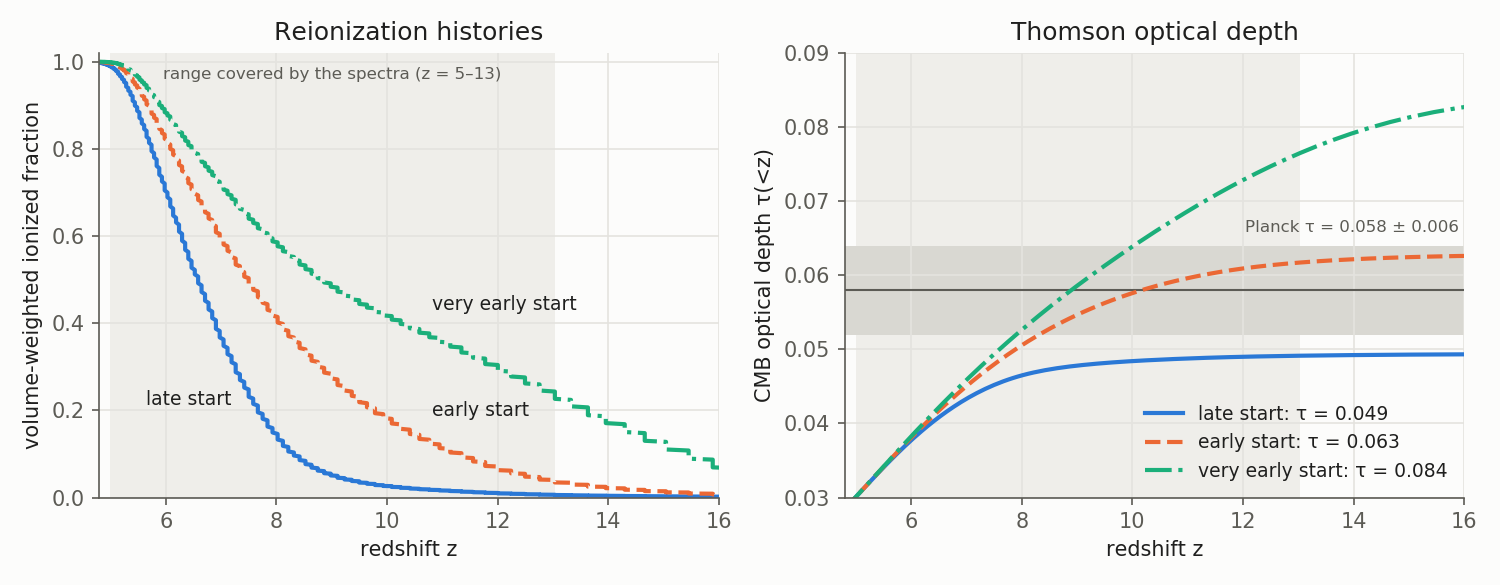
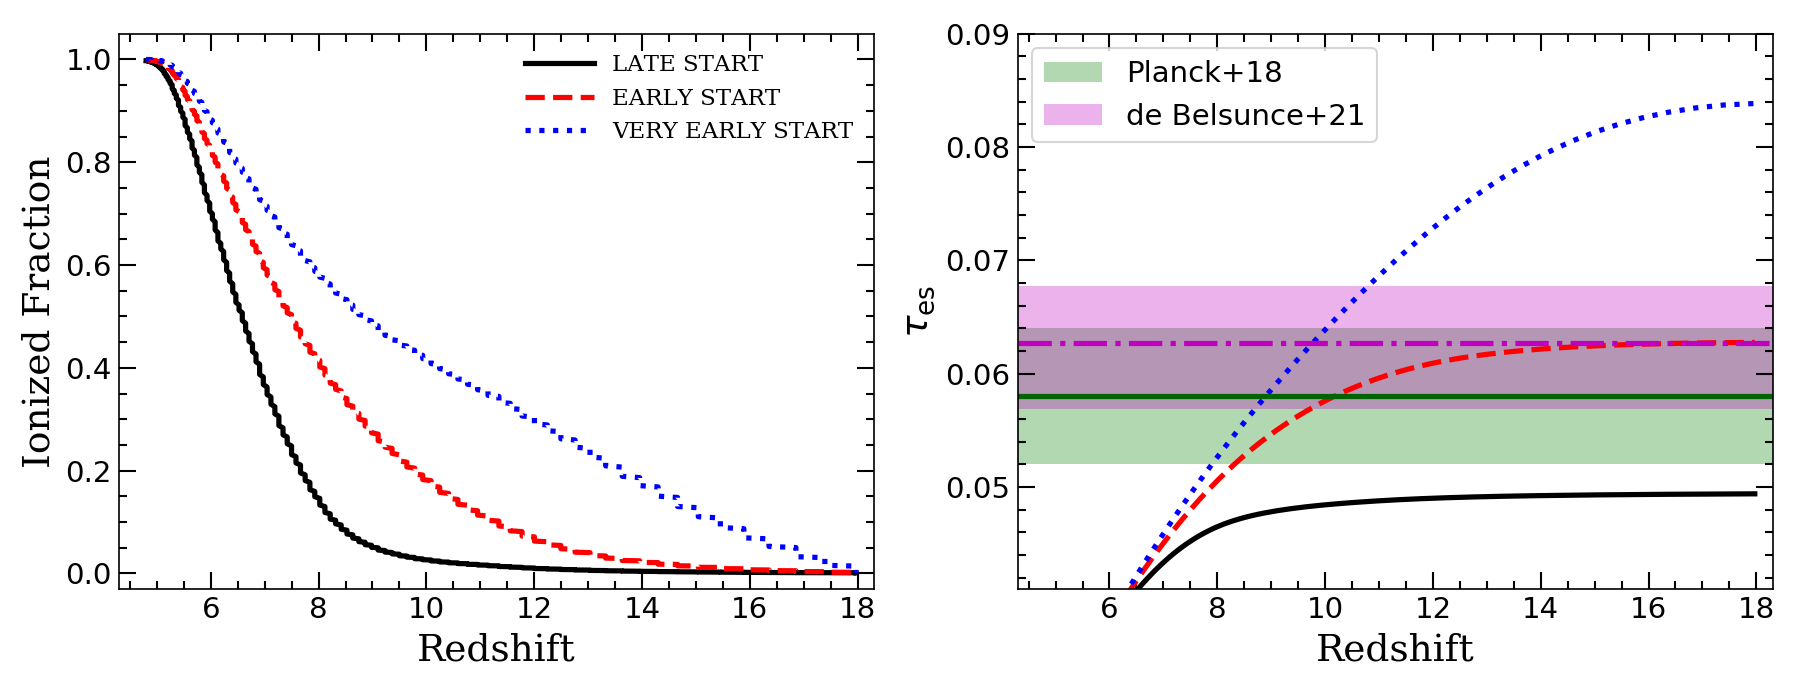
Reionization plot: match the style of Cohon et al. 2025 Fig. 1
Black solid / red dashed / blue dotted, inward ticks on all sides,
Planck+18 and de Belsunce+21 tau bands.

Changed region(s): [[0.0, 0.0308, 1.0, 0.9846], [0.184, 0.7385, 0.2147, 0.8], [0.4907, 0.2769, 0.5213, 0.3077]]

diff --git a/docs/make_reionization_plot.py b/docs/make_reionization_plot.py
@@ -29,7 +29,8 @@ MODELS = [("late_end_late_start_4", "late start"),
 OM, OB, HH, Y = 0.305147, 0.048, 0.68, 0.246
 SIGMA_T, C, G, M_H, MPC = 6.6524587e-25, 2.99792458e10, 6.6743e-8, 1.6735575e-24, 3.0856776e24
 Z_HE3 = 3.5
-PLANCK_TAU, PLANCK_ERR = 0.058, 0.006  # value quoted in Cohon et al. 2025
+PLANCK_TAU, PLANCK_ERR = 0.058, 0.006  # Planck+18 band as plotted in Cohon et al. 2025
+DEBELSUNCE_TAU, DEBELSUNCE_LO, DEBELSUNCE_HI = 0.0627, 0.0058, 0.0050  # de Belsunce et al. 2021
 
 
 def read_otf(path):
@@ -71,54 +72,43 @@ def build_csv(otf_dir):
 
 
 def plot():
+    """Same style as Fig. 1 of Cohon et al. 2025."""
     import matplotlib
     matplotlib.use("Agg")
     import matplotlib.pyplot as plt
 
     d = np.genfromtxt(CSV, delimiter=",", names=True)
     z = d["z"]
-    # default categorical slots 1-3 (blue, orange, aqua), plus line style as a second cue
-    colors = ["#2a78d6", "#eb6834", "#1baf7a"]
-    styles = ["-", "--", "-."]
-    ink, ink2, grid, surface = "#1f1f1e", "#5c5b55", "#e4e3df", "#fcfcfb"
+    styles = [dict(color="k", ls="-"), dict(color="r", ls="--"), dict(color="b", ls=":")]
 
-    plt.rcParams.update({"font.size": 10, "axes.edgecolor": ink2, "axes.labelcolor": ink,
-                         "xtick.color": ink2, "ytick.color": ink2, "text.color": ink})
-    fig, ax = plt.subplots(1, 2, figsize=(10, 3.9), facecolor=surface)
+    fig, ax = plt.subplots(1, 2, figsize=(12, 4.6))
     for a in ax:
-        a.set_facecolor(surface)
-        a.grid(color=grid, lw=0.8)
-        a.set_axisbelow(True)
-        for s in ("top", "right"):
-            a.spines[s].set_visible(False)
-        a.set_xlim(4.8, 16)
-        a.set_xlabel("redshift z")
-        a.axvspan(5.0, 13.04, color="#efeeea", lw=0, zorder=0)
+        a.minorticks_on()
+        a.tick_params(which="both", direction="in", top=True, right=True, labelsize=14)
+        a.tick_params(which="major", length=8, width=1)
+        a.tick_params(which="minor", length=4, width=1)
+        a.set_xlim(4.3, 18.3)
+        a.set_xlabel("Redshift", fontsize=18, family="serif")
 
-    for (model, name), c, ls in zip(MODELS, colors, styles):
-        x = d[model + "_xHII_vol"]
-        tau = d[model + "_tau_lt_z"]
-        tau_tot = tau_cumulative(z, d[model + "_xHII_mass"])[1]
-        ax[0].plot(z, x, color=c, ls=ls, lw=2, label=name)
-        ax[1].plot(z, tau, color=c, ls=ls, lw=2, label="{}: τ = {:.3f}".format(name, tau_tot))
-        zl, off, ha = (7.4, (-6, -4), "right") if name == "late start" else (10.5, (6, 9), "left")
-        i = np.argmin(abs(z - zl))
-        ax[0].annotate(name, (z[i], x[i]), xytext=off, textcoords="offset points", fontsize=9, color=ink,
-                       ha=ha, va="top" if ha == "right" else "baseline")
+    for (model, name), st in zip(MODELS, styles):
+        ax[0].plot(z, d[model + "_xHII_vol"], lw=2.5, label=name.upper(), **st)
+        ax[1].plot(z, d[model + "_tau_lt_z"], lw=2.5, **st)
 
-    ax[0].set(ylabel="volume-weighted ionized fraction", ylim=(0, 1.02),
-              title="Reionization histories")
-    ax[0].text(9.0, 0.96, "range covered by the spectra (z = 5–13)", fontsize=8, color=ink2, ha="center")
+    ax[0].set_ylabel("Ionized Fraction", fontsize=18, family="serif")
+    ax[0].set_ylim(-0.03, 1.05)
+    ax[0].legend(loc="upper right", frameon=False, prop={"family": "serif", "size": 11}, handlelength=3)
 
-    ax[1].axhspan(PLANCK_TAU - PLANCK_ERR, PLANCK_TAU + PLANCK_ERR, color="#d9d8d2", lw=0, zorder=0.5)
-    ax[1].axhline(PLANCK_TAU, color=ink2, lw=1, zorder=0.6)
-    ax[1].text(15.9, PLANCK_TAU + PLANCK_ERR + 0.0015, "Planck τ = 0.058 ± 0.006", fontsize=8, color=ink2,
-               ha="right", va="bottom")
-    ax[1].set(ylabel="CMB optical depth τ(<z)", ylim=(0.03, 0.09), title="Thomson optical depth")
-    ax[1].legend(loc="lower right", frameon=False, fontsize=9)
+    ax[1].axhspan(PLANCK_TAU - PLANCK_ERR, PLANCK_TAU + PLANCK_ERR, color="g", alpha=0.3, lw=0, label="Planck+18")
+    ax[1].axhline(PLANCK_TAU, color="darkgreen", lw=2.5)
+    ax[1].axhspan(DEBELSUNCE_TAU - DEBELSUNCE_LO, DEBELSUNCE_TAU + DEBELSUNCE_HI, color="m", alpha=0.3, lw=0,
+                  label="de Belsunce+21")
+    ax[1].axhline(DEBELSUNCE_TAU, color="m", ls="-.", lw=2.5)
+    ax[1].set_ylabel(r"$\tau_{\rm es}$", fontsize=18)
+    ax[1].set_ylim(0.041, 0.09)
+    ax[1].legend(loc="upper left", fontsize=14)
 
     fig.tight_layout()
-    fig.savefig(PNG, dpi=150, facecolor=surface)
+    fig.savefig(PNG, dpi=150)
     print("wrote", PNG)
 
 

diff --git a/README.md b/README.md
@@ -242,8 +242,10 @@ file names). All three come from the simulations of
 
 ![Reionization histories and CMB optical depth of the three models](docs/reionization_histories.png)
 
-The histories come from FlexRT's global averages. τ is computed from them with
-He II reionization at z = 3.5. The histories and τ(<z) are in
+The figure follows the style of Fig. 1 in Cohon et al. 2025. The histories
+come from FlexRT's global averages, and τ is computed from them with He II
+reionization at z = 3.5. Because of that helium assumption, these τ values
+are 0.001–0.002 lower than the paper's. The histories and τ(<z) are in
 [`docs/reionization_histories.csv`](docs/reionization_histories.csv), and
 [`docs/make_reionization_plot.py`](docs/make_reionization_plot.py) remakes the
 figure.
